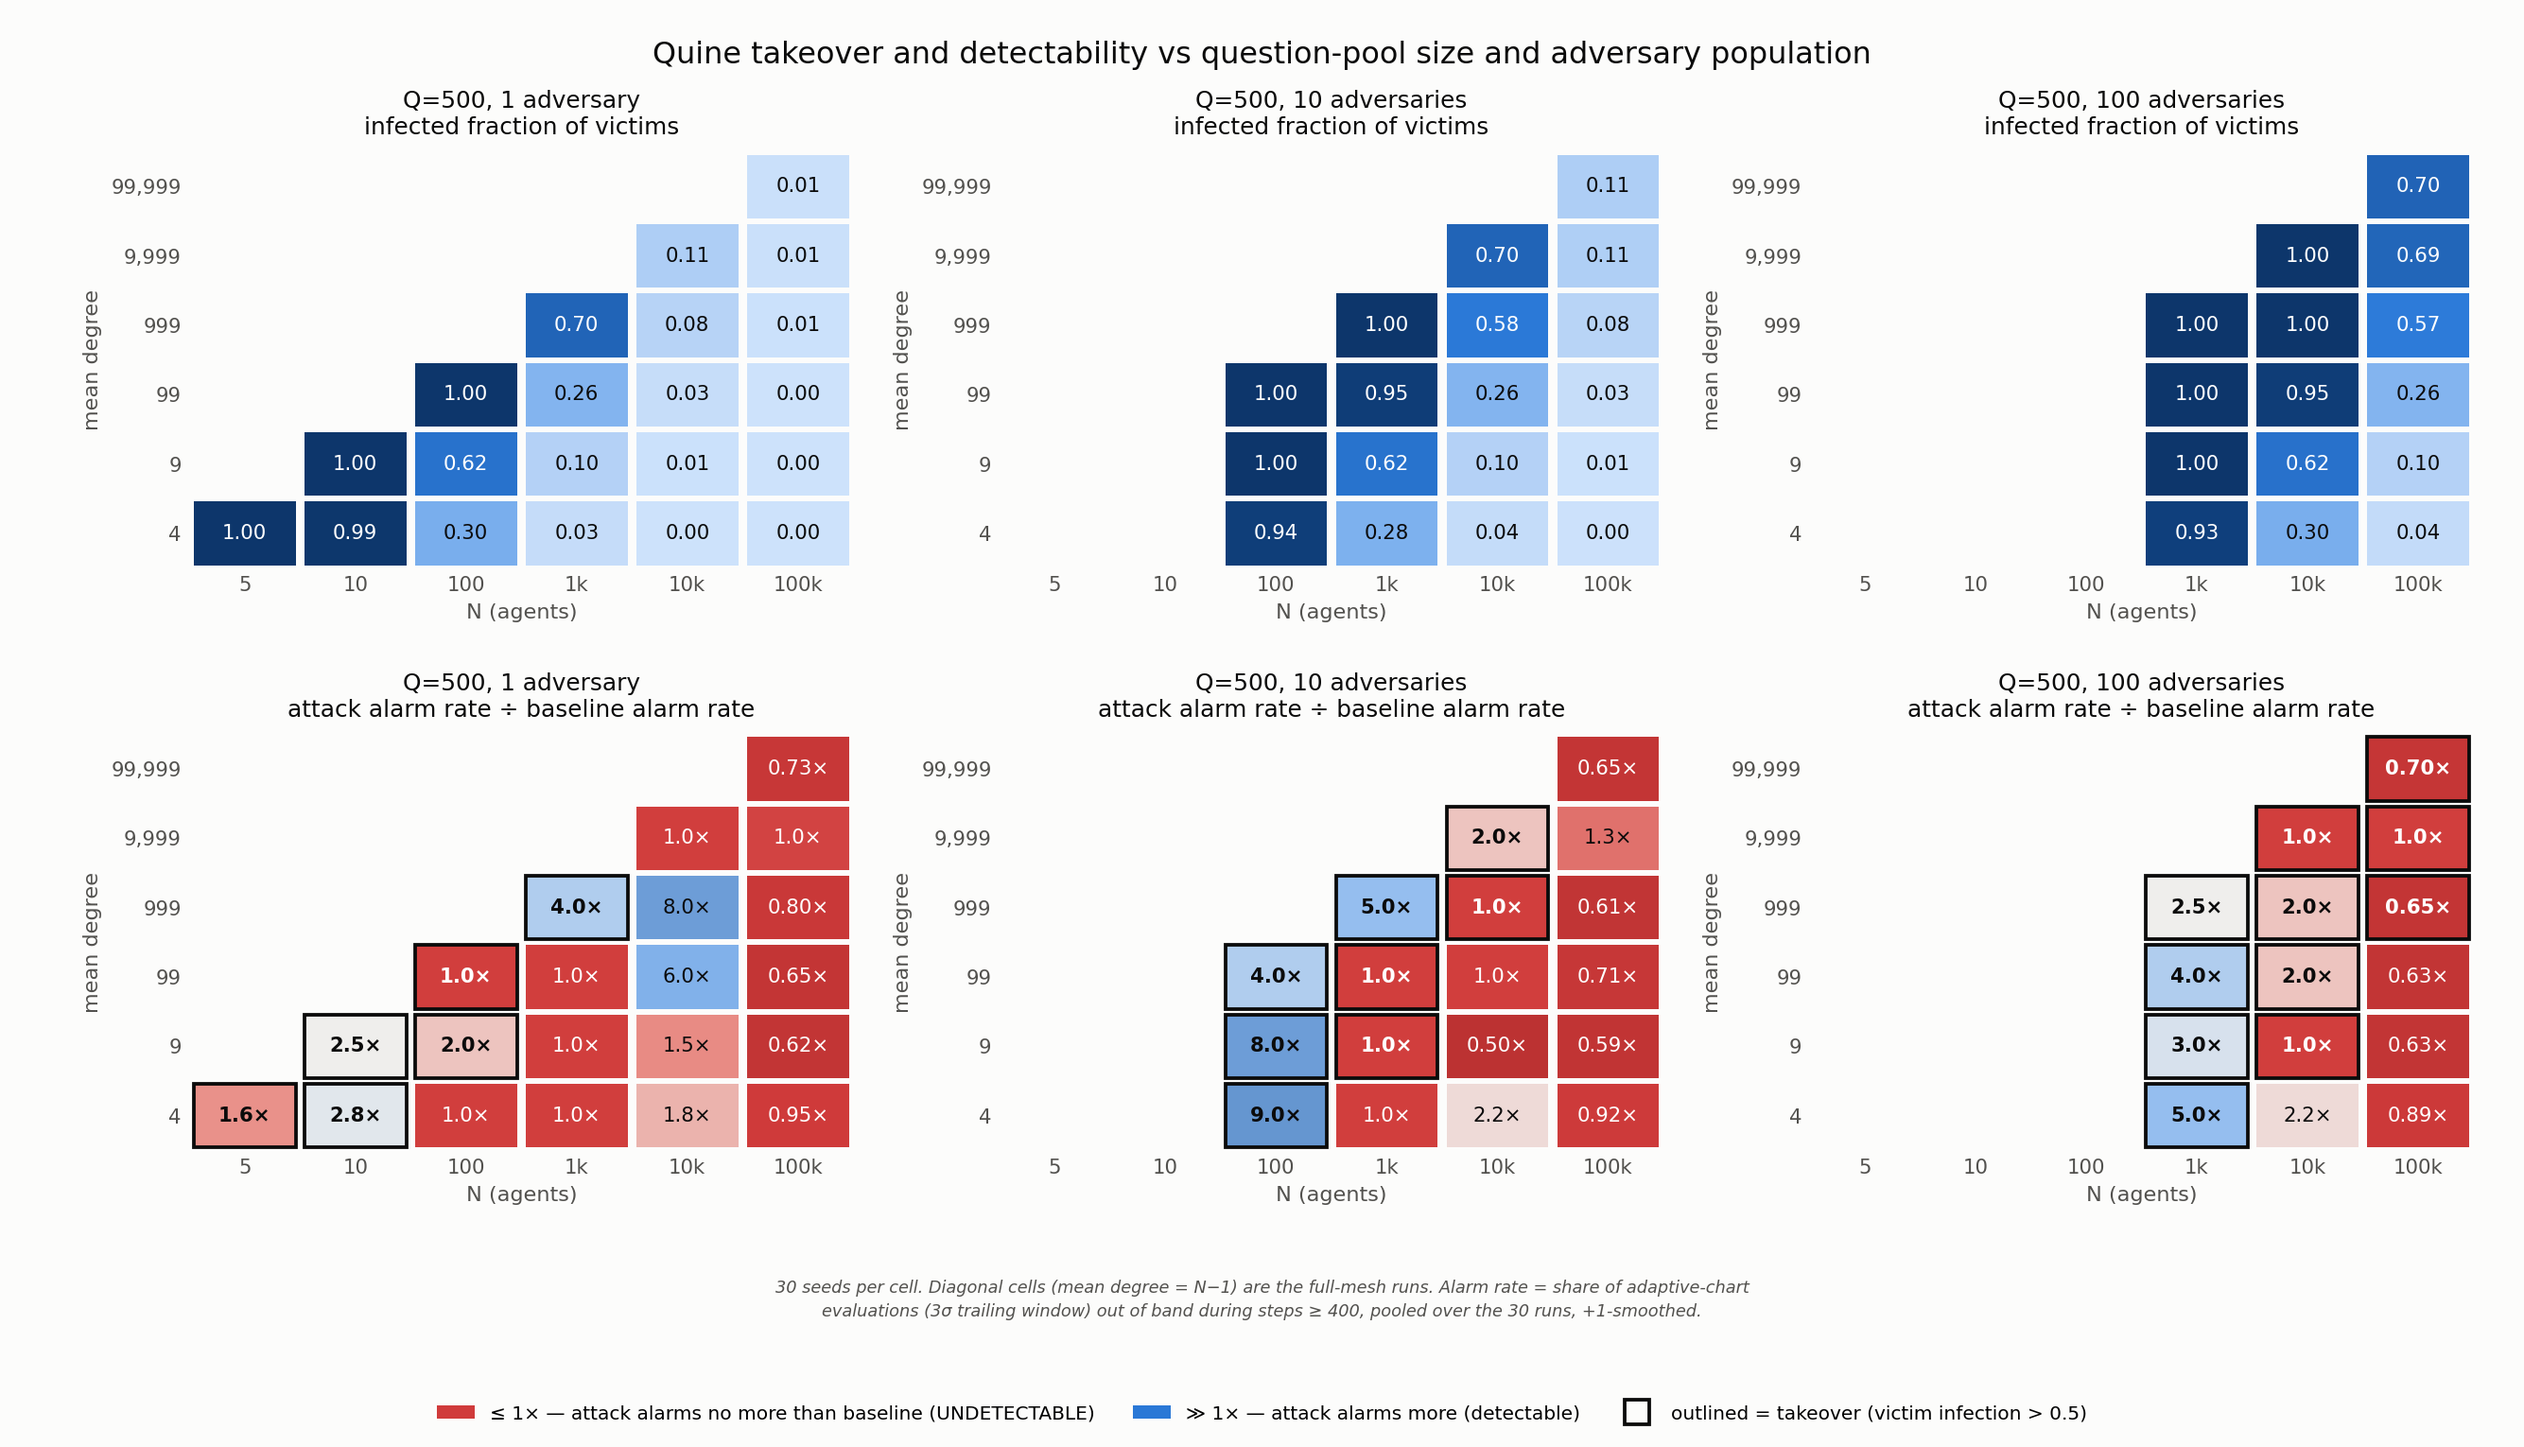
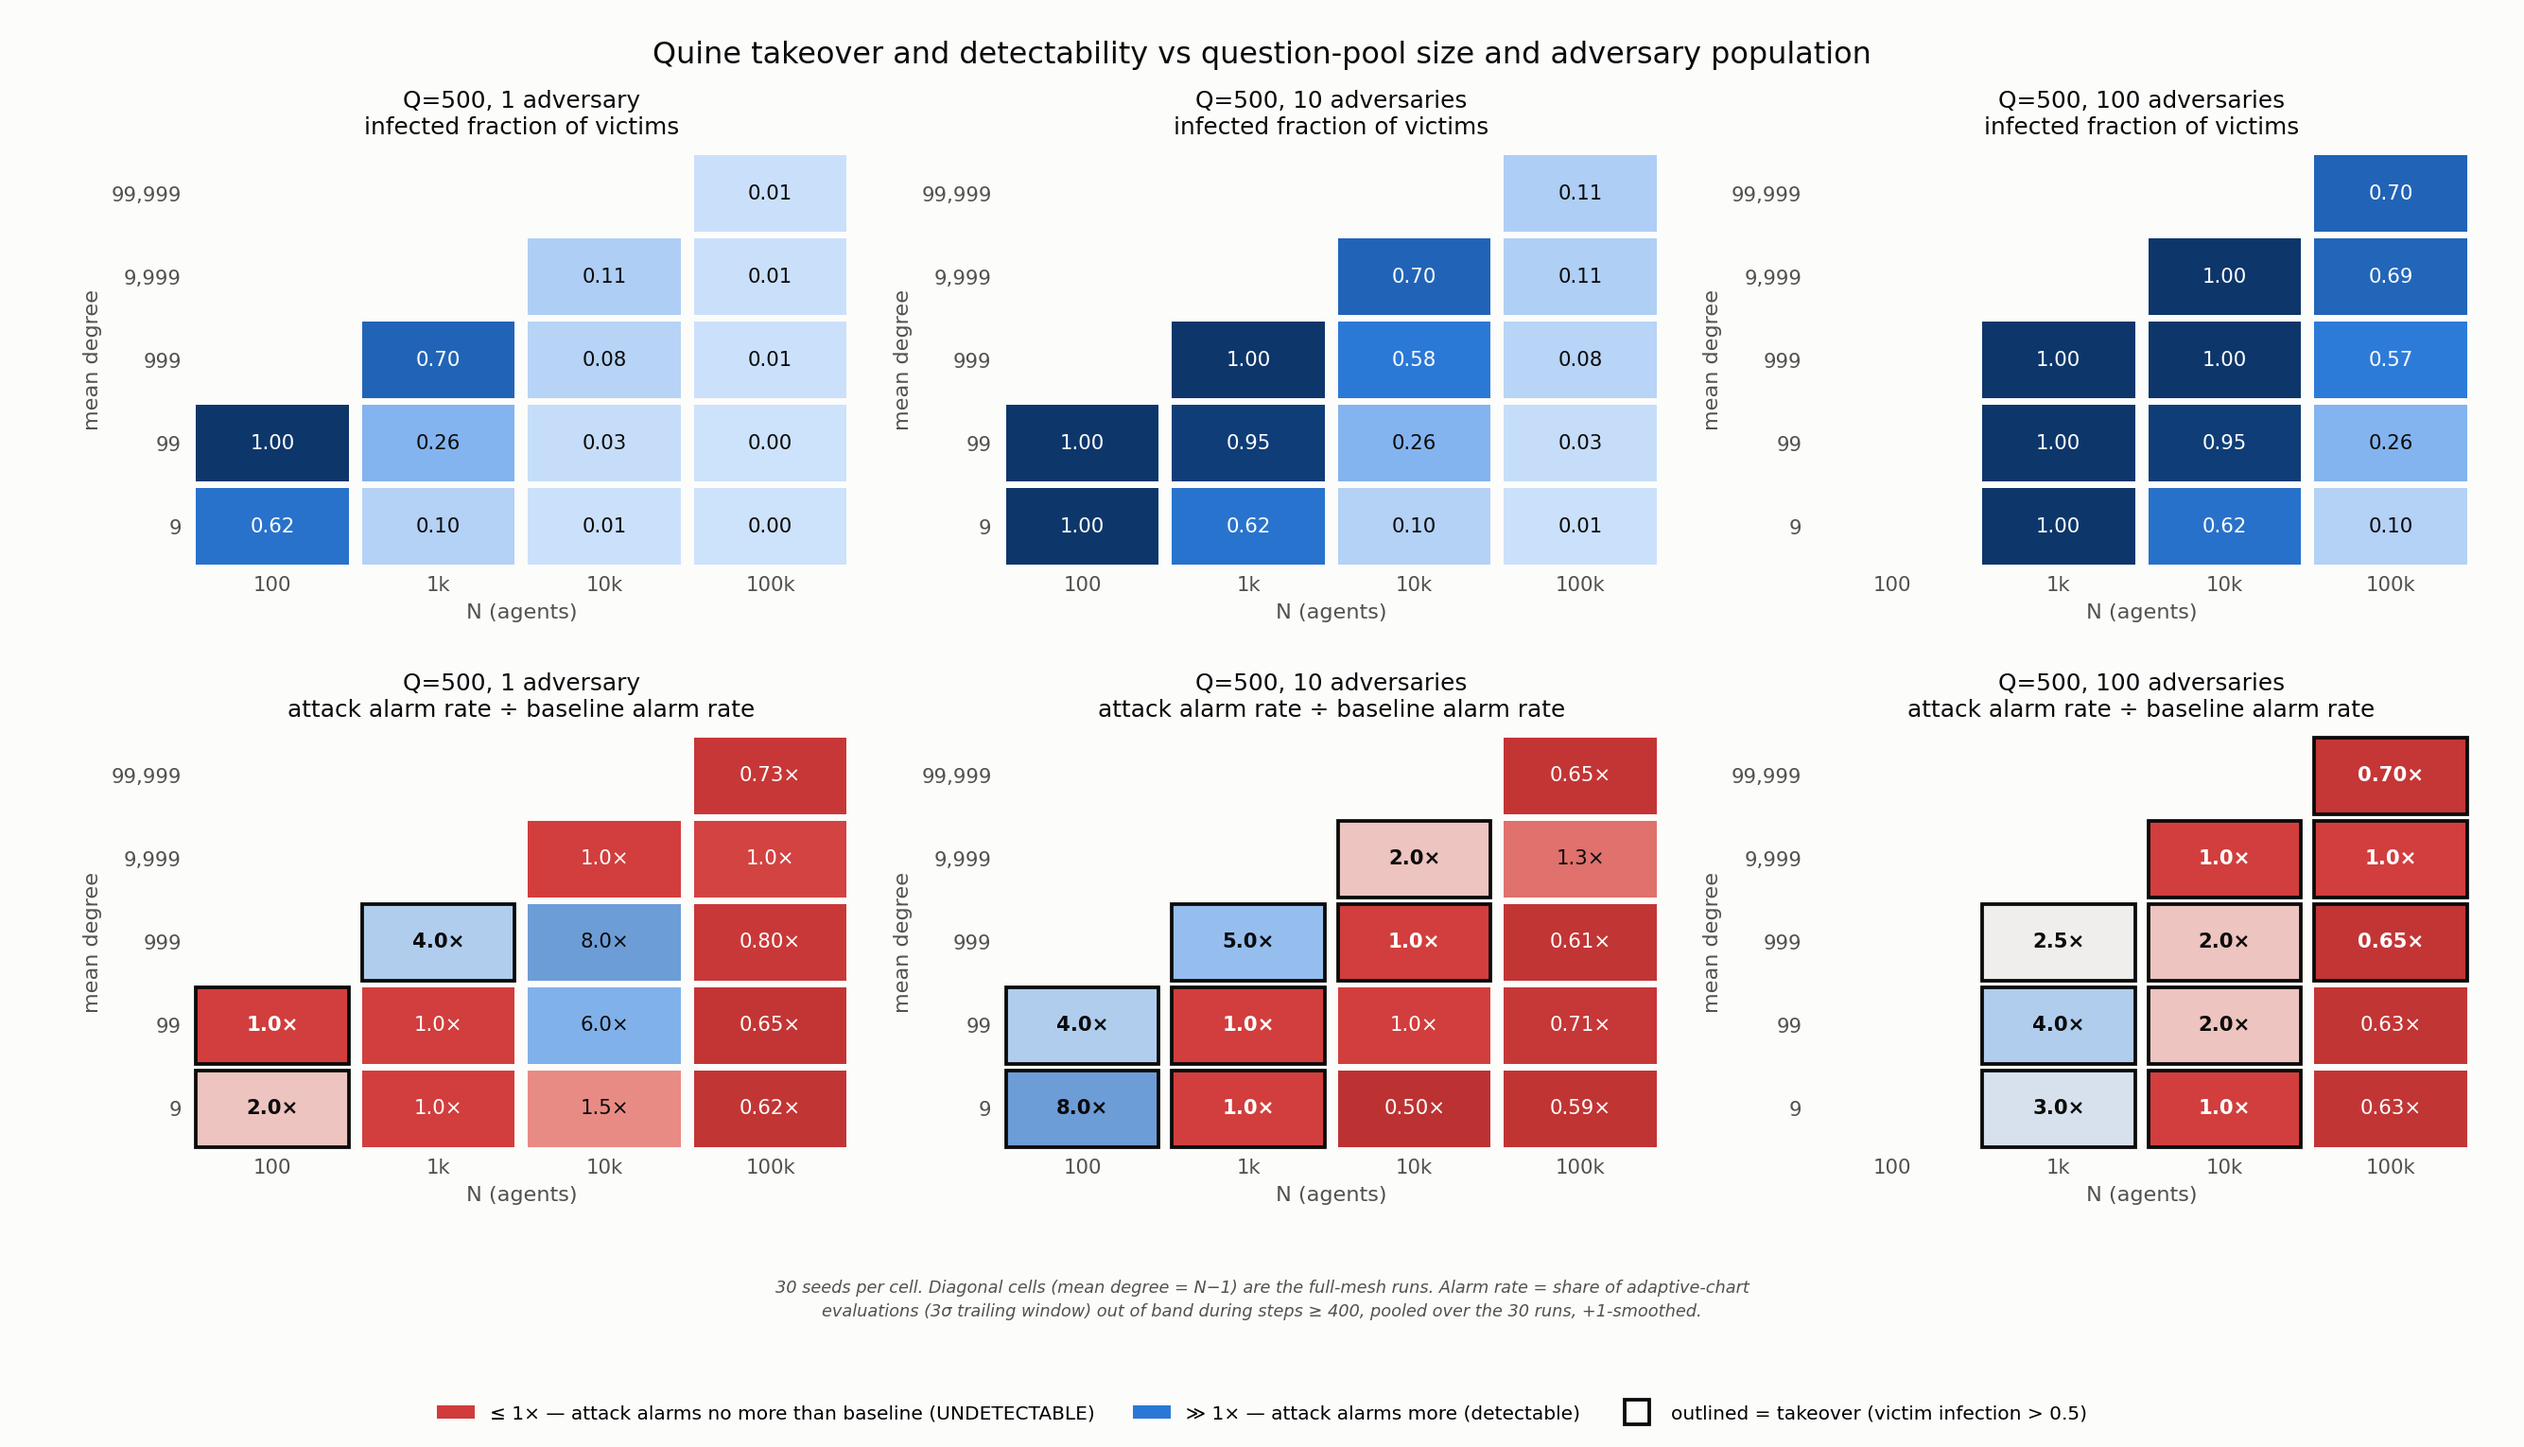
plot_grids: --ns/--degs axis flags; trim ladder figure to N>=100, degree>=9
Drops the N=5 / N=10 columns and the degree-4 row from the Q=500 ladder. The
degree-4 row was the one density step where a sparse graph starves the quine,
so it read as an outlier against the rest of each panel.

diff --git a/src/controlcharts/fastsim/plot_grids.py b/src/controlcharts/fastsim/plot_grids.py
@@ -116,10 +116,22 @@ def rfmt(r):
 
 
 def main():
-    out_png = sys.argv[1]
+    # --ns / --degs restrict the axes (e.g. --ns 100,1000,10000,100000 drops the
+    # N=5 and N=10 columns). Stripped before the label=glob positionals.
+    argv, ns_sel, degs_sel = [], None, None
+    it = iter(sys.argv[1:])
+    for a in it:
+        if a == "--ns":
+            ns_sel = [int(x) for x in next(it).split(",")]
+        elif a == "--degs":
+            degs_sel = [int(x) for x in next(it).split(",")]
+        else:
+            argv.append(a)
+
+    out_png = argv[0]
     grids = {}
     seeds_seen = set()
-    for arg in sys.argv[2:]:
+    for arg in argv[1:]:
         # rsplit: labels themselves contain '=' (e.g. "Q=500, 20% adversarial")
         label, src = arg.rsplit("=", 1)
         cells = load(src)
@@ -131,9 +143,9 @@ def main():
     if not grids:
         sys.exit("no data")
 
-    NS = [5, 10, 100, 1000, 10000, 100000]
+    NS = ns_sel or [5, 10, 100, 1000, 10000, 100000]
     present = {k_[1] for g in grids.values() for k_ in g}
-    DEGS = [d for d in [4, 9, 99, 999, 9999, 99999] if d in present]
+    DEGS = [d for d in (degs_sel or [4, 9, 99, 999, 9999, 99999]) if d in present]
     nfmt = {5: "5", 10: "10", 100: "100", 1000: "1k", 10000: "10k", 100000: "100k"}
     dfmt = {4: "4", 9: "9", 99: "99", 999: "999", 9999: "9,999", 99999: "99,999"}
 
